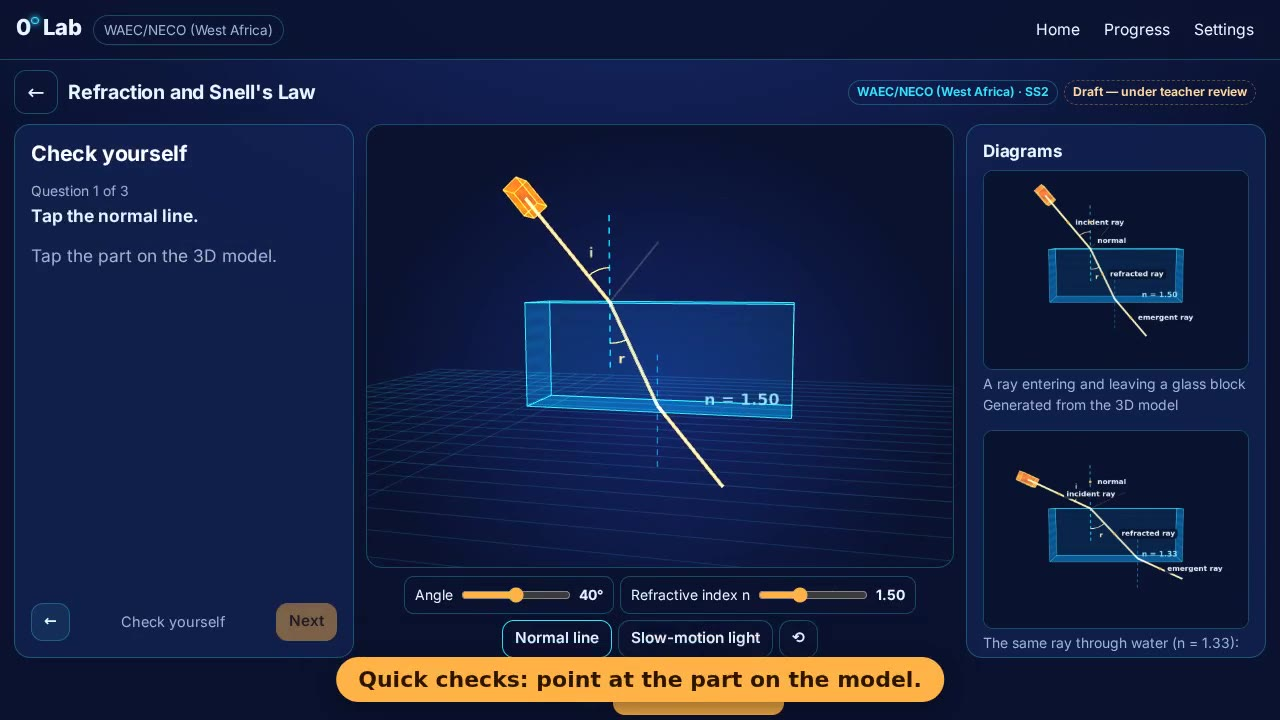
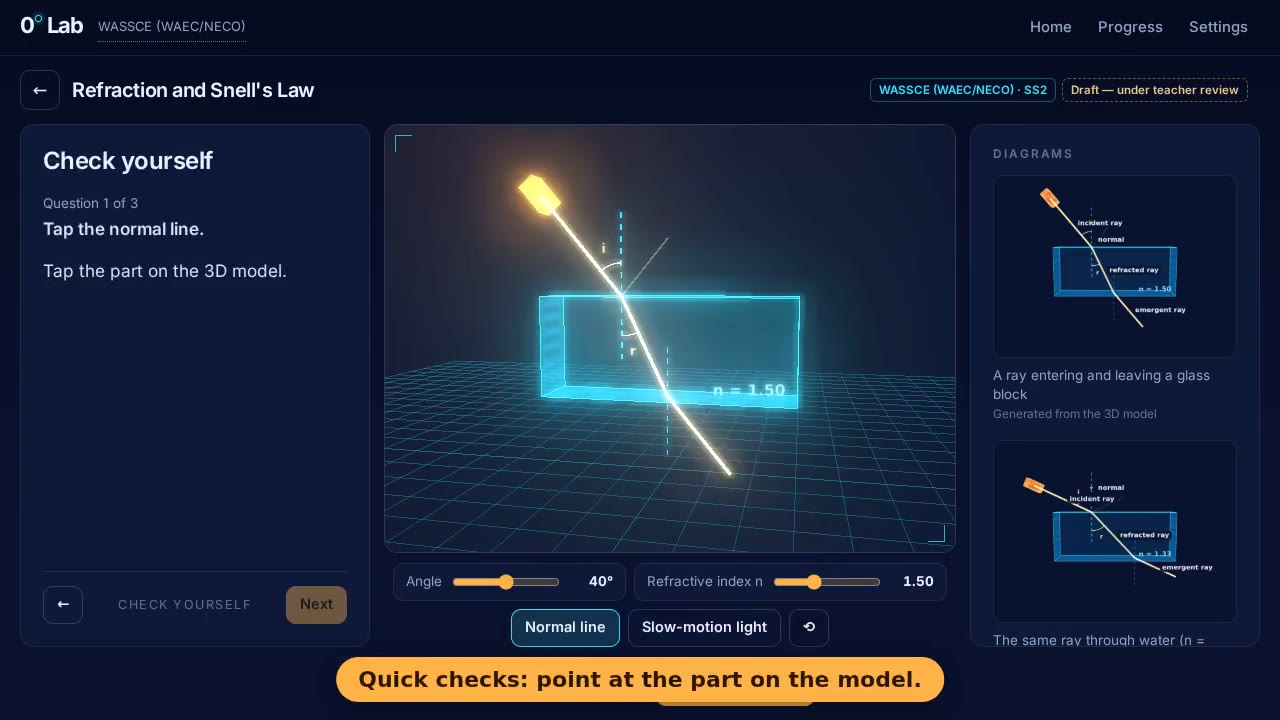
Glass surfaces over a fixed, slowly revolving atom backdrop

diff --git a/src/style.css b/src/style.css
@@ -329,3 +329,47 @@ table.results td.derived { color: #a9c6ee; }
 .ar-bar { position: fixed; top: 8px; inset-inline-end: 8px; z-index: 5; display: flex; gap: 6px; align-items: center; font-size: .85rem; color: #fff; text-shadow: 0 1px 4px #000; }
 /* dev emulator only: stand-in backdrop where a phone would show the camera */
 html[data-iwer='phone'].ar-active { background: linear-gradient(#c9d2da 0%, #c9d2da 52%, #9c8f7c 52%, #b3a692 100%) !important; }
+
+/* ================= glass over a revolving atom =================
+   The atom is fixed to the window; every surface is frosted glass, so the page
+   scrolls over it and the atom shows softly through. Lite mode and
+   reduced-motion get a still atom and plain (unblurred) surfaces. */
+body { background: radial-gradient(1100px 700px at 78% 30%, #13225e 0%, rgba(10, 18, 48, 0) 62%), linear-gradient(180deg, #050919 0%, #0a1230 100%) fixed; }
+.atom-bg { position: fixed; inset: 0; z-index: 0; pointer-events: none; overflow: hidden; display: grid; place-items: center; }
+.atom-bg svg { width: min(128vmin, 1050px); height: auto; opacity: .62; transform: translate(17vw, 2vh); }
+.atom-spin { transform-origin: center; transform-box: fill-box; animation: atom-turn 90s linear infinite; }
+.atom-bg .nucleus { transform-origin: center; transform-box: fill-box; animation: atom-pulse 5s ease-in-out infinite; }
+@keyframes atom-turn { to { transform: rotate(360deg); } }
+@keyframes atom-pulse { 50% { transform: scale(1.08); } }
+.lite .atom-spin, .lite .atom-bg .nucleus { animation: none; }
+#app { position: relative; z-index: 1; }
+:root { --glass: rgba(16, 28, 72, 0.42); --glass-strong: rgba(10, 18, 50, 0.62); --glass-line: rgba(255, 255, 255, 0.14); --blur: blur(18px) saturate(150%); }
+.topbar { background: rgba(6, 11, 31, 0.5); backdrop-filter: var(--blur); -webkit-backdrop-filter: var(--blur); border-bottom-color: var(--glass-line); }
+.card, .panel, .board, .board-switch, .modal-card, .subjects, .band, .chip-card, .topic-row, .stats, .tools label, .how, .plate, .seg, .readout, .bubble {
+  background: var(--glass);
+  -webkit-backdrop-filter: var(--blur);
+  backdrop-filter: var(--blur);
+  border-color: var(--glass-line);
+  box-shadow: inset 0 1px 0 rgba(255, 255, 255, 0.09), 0 10px 40px rgba(2, 5, 20, 0.28);
+}
+.how { border: 1px solid var(--glass-line); border-radius: var(--r); padding: 0 28px; }
+.band { background: linear-gradient(120deg, rgba(22, 36, 88, 0.5), rgba(10, 18, 50, 0.4)); }
+.modal-card, .bubble, .readout { background: var(--glass-strong); }
+.btn:not(.primary) { background: rgba(255, 255, 255, 0.05); -webkit-backdrop-filter: blur(10px); backdrop-filter: blur(10px); border-color: var(--glass-line); }
+.btn:not(.primary):hover { background: rgba(54, 227, 255, 0.12); }
+.card .thumb, .figure img, .graph, .plate { background: rgba(8, 14, 40, 0.55); }
+.card .thumb img, .plate img, .band img { mix-blend-mode: screen; }
+.card:hover { background: rgba(24, 40, 96, 0.5); }
+.viewport { background: radial-gradient(ellipse at 50% 62%, rgba(24, 42, 118, 0.72) 0%, rgba(8, 14, 40, 0.78) 70%); -webkit-backdrop-filter: blur(8px); backdrop-filter: blur(8px); }
+.form select { background: rgba(6, 11, 31, 0.7); }
+.eyebrow { color: #7f93bd; }
+/* no blur where it would cost frames or is not supported: fall back to solid surfaces */
+.lite .card, .lite .panel, .lite .board, .lite .board-switch, .lite .modal-card, .lite .subjects, .lite .band, .lite .chip-card, .lite .topic-row, .lite .stats, .lite .tools label, .lite .how, .lite .plate, .lite .seg, .lite .btn:not(.primary), .lite .topbar, .lite .viewport {
+  -webkit-backdrop-filter: none; backdrop-filter: none; background: rgba(13, 22, 56, 0.94);
+}
+@supports not ((backdrop-filter: blur(1px)) or (-webkit-backdrop-filter: blur(1px))) {
+  .card, .panel, .board, .board-switch, .modal-card, .subjects, .band, .chip-card, .topic-row, .stats, .tools label, .how, .plate, .seg { background: rgba(13, 22, 56, 0.94); }
+}
+@media (max-width: 900px) { .atom-bg svg { width: 150vmin; transform: translate(22vw, -12vh); opacity: .5; } .how { padding: 0 20px; } }
+@media print { .atom-bg { display: none; } }
+.ar-active .atom-bg { display: none; }

diff --git a/src/ui/components/atom.ts b/src/ui/components/atom.ts
@@ -1,0 +1,32 @@
+// The backdrop: an atom that turns slowly behind every page. It is fixed to the
+// window, so content scrolls over it. Pure SVG (no 3D engine), and it sits still
+// in Lite mode or when the device asks for reduced motion.
+export function atomBackdrop(still: boolean): HTMLElement {
+  const el = document.createElement('div');
+  el.className = 'atom-bg';
+  el.setAttribute('aria-hidden', 'true');
+  const orbit = (rot: number, dur: number, begin: number, color: string) => {
+    const path = 'M170,0 A170,60 0 1,1 -170,0 A170,60 0 1,1 170,0';
+    const move = still ? '' : `<animateMotion dur="${dur}s" begin="-${begin}s" repeatCount="indefinite" path="${path}"/>`;
+    return `<g transform="rotate(${rot})">
+      <path d="${path}" fill="none" stroke="url(#orb)" stroke-width="1.4"/>
+      <g ${still ? 'transform="translate(170,0)"' : ''}><circle r="13" fill="${color}" opacity=".22" filter="url(#soft)"/><circle r="5" fill="${color}"/>${move}</g>
+    </g>`;
+  };
+  const nucleon = (x: number, y: number, c: string) => `<circle cx="${x}" cy="${y}" r="11" fill="url(#${c})"/>`;
+  el.innerHTML = `<svg viewBox="-210 -210 420 420" xmlns="http://www.w3.org/2000/svg">
+    <defs>
+      <linearGradient id="orb" x1="0" x2="1"><stop offset="0" stop-color="#36e3ff" stop-opacity=".75"/><stop offset=".5" stop-color="#36e3ff" stop-opacity=".12"/><stop offset="1" stop-color="#36e3ff" stop-opacity=".75"/></linearGradient>
+      <radialGradient id="p" cx=".35" cy=".3"><stop offset="0" stop-color="#ffe2b0"/><stop offset="1" stop-color="#ff9a2e"/></radialGradient>
+      <radialGradient id="n" cx=".35" cy=".3"><stop offset="0" stop-color="#c9f6ff"/><stop offset="1" stop-color="#1fb6d6"/></radialGradient>
+      <radialGradient id="halo"><stop offset="0" stop-color="#36e3ff" stop-opacity=".38"/><stop offset="1" stop-color="#36e3ff" stop-opacity="0"/></radialGradient>
+      <filter id="soft" x="-200%" y="-200%" width="500%" height="500%"><feGaussianBlur stdDeviation="5"/></filter>
+    </defs>
+    <g class="atom-spin">
+      <circle r="120" fill="url(#halo)"/>
+      ${orbit(0, 7, 0, '#ffb347')}${orbit(60, 9, 3, '#36e3ff')}${orbit(120, 11, 6, '#e8f7ff')}
+      <g class="nucleus">${nucleon(-9, -7, 'p')}${nucleon(10, -9, 'n')}${nucleon(-11, 10, 'n')}${nucleon(9, 9, 'p')}${nucleon(0, 0, 'p')}</g>
+    </g>
+  </svg>`;
+  return el;
+}

diff --git a/src/main.ts b/src/main.ts
@@ -2,6 +2,7 @@ import '@fontsource-variable/inter/index.css';
 import './style.css';
 import { h } from './ui/dom.ts';
 import { logo } from './ui/components/logo.ts';
+import { atomBackdrop } from './ui/components/atom.ts';
 import { firstRunPicker } from './ui/components/picker.ts';
 import { route, startRouter, render } from './router.ts';
 import { setLocale, t } from './i18n/index.ts';
@@ -32,6 +33,8 @@ async function boot() {
   const app = document.getElementById('app')!;
   chip = h('a.board-chip', { href: '#/settings', id: 'board-chip', title: t('subject.curriculum') }, board().name);
   const main = h('main', { id: 'outlet' });
+  const still = isLite() || matchMedia('(prefers-reduced-motion: reduce)').matches;
+  document.body.prepend(atomBackdrop(still));
   app.replaceChildren(
     h('header.topbar',
       h('a.brand', { href: '#/', 'aria-label': '0⁰ Lab' }, logo(22)),
